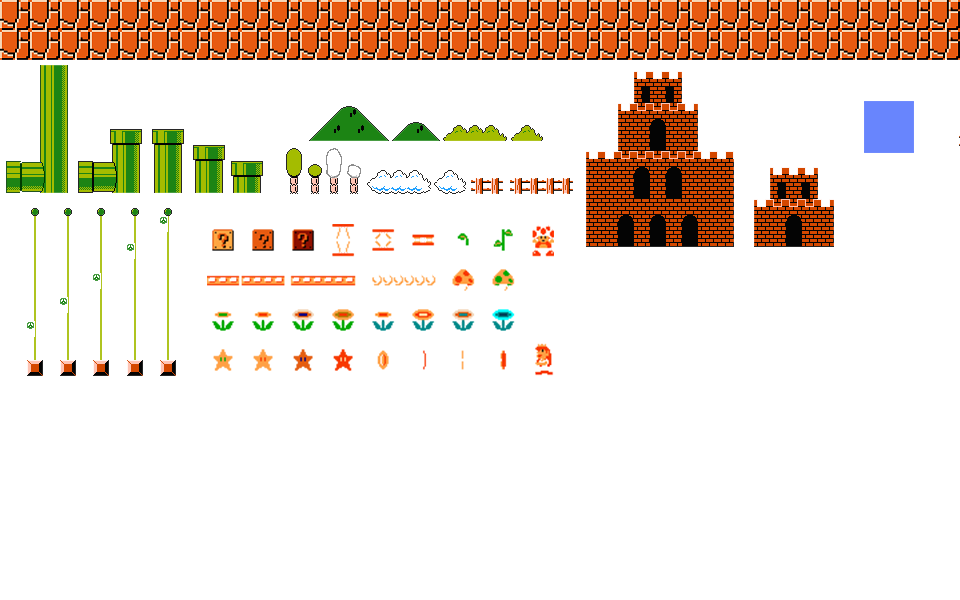
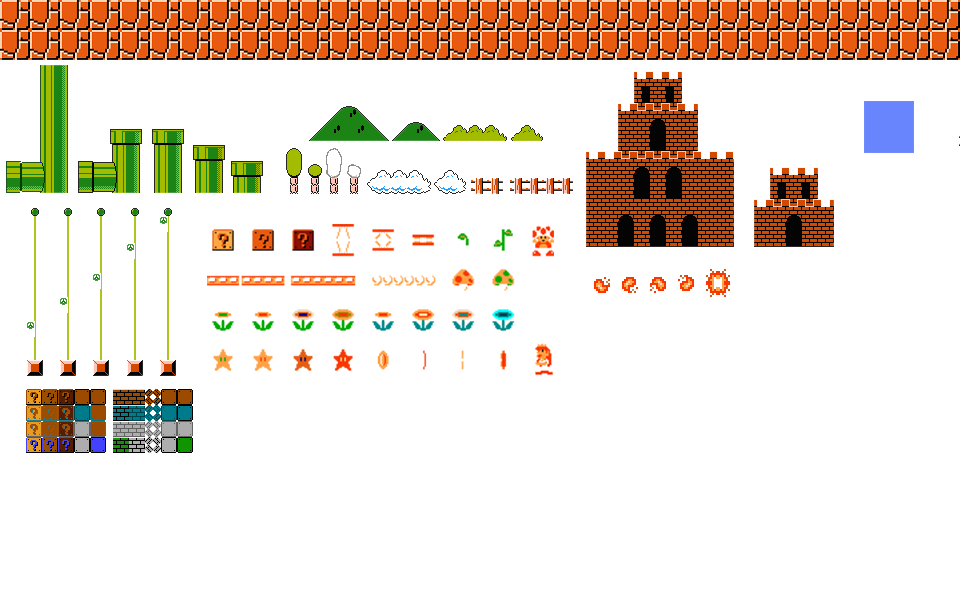
마리오 형태 변환 구현 및, 공격 구현

Changed region(s): [[0.0, 0.63, 0.2188, 0.78], [0.625, 0.45, 0.7812, 0.51]]

diff --git a/Super Mario bros/Mario.py b/Super Mario bros/Mario.py
@@ -3,10 +3,10 @@ import GameFramework
 
 class Mario:
 	# State
-	LEFT_IDLE, RIGHT_IDLE, LEFT_RUN, RIGHT_RUN,	LEFT_JUMP, RIGHT_JUMP, DIE = range(7)
+	LEFT_IDLE, RIGHT_IDLE, LEFT_RUN, RIGHT_RUN,	LEFT_JUMP, RIGHT_JUMP = range(6)
 	JUMP = 900
 	GRAVITY = 3000
-
+	MAX_FIRE = 10
 	KEY_MAP = {
 		(SDL_KEYDOWN, SDLK_LEFT):  (-1,  0),
 		(SDL_KEYDOWN, SDLK_RIGHT): (1,  0),
@@ -14,58 +14,119 @@ class Mario:
 		(SDL_KEYUP, SDLK_RIGHT):   (-1,  0)
 	}
 
-	KEY_SPACE = (SDL_KEYDOWN, SDLK_SPACE)
-
-
-	IMAGE_RECT = [
+	KEY_JUMP = (SDL_KEYDOWN, SDLK_SPACE)
+	KEY_LIFE1 = (SDL_KEYDOWN, SDLK_1)
+	KEY_LIFE2 = (SDL_KEYDOWN, SDLK_2)
+	KEY_LIFE3 = (SDL_KEYDOWN, SDLK_3)
+	KEY_FIRE = (SDL_KEYDOWN, SDLK_w)
+	IMAGE_LIFE1 = [
 		# Left Idle
-		[(360, 346, 30, 30)],
+		[[360, 346, 30, 30]],
 		# Right Idle
-		[(420, 346, 30, 30)],
+		[[420, 346, 30, 30]],
 		# Left Run
-		[(298, 346, 29, 30), (240, 346, 25, 30), (175, 346, 35, 30)],
+		[[298, 346, 29, 30], [240, 346, 25, 30], [175, 346, 35, 30]],
 		# Right Run
-		[(480, 346, 29, 30), (542, 346, 25, 30), (598, 346, 33, 30)],
+		[[480, 346, 29, 30], [542, 346, 25, 30], [598, 346, 33, 30]],
 		# Left Jump
-		[(57, 346, 34, 30)],
+		[[57, 346, 34, 30]],
 		# Right Jump
-		[(717, 346, 34, 30)],
-		# Die
-		[(245, 4, 57, 78), (324, 6, 57, 80)]
+		[[717, 346, 34, 30]]
 	]
+	IMAGE_LIFE2 = [
+		# Left Idle
+		[[359, 210, 33, 64]],
+		# Right Idle
+		[[417, 210, 33, 64]],
+		# Left Run
+		[[298, 210, 33, 64], [240, 210, 30, 64], [179, 210, 33, 64]],
+		# Right Run
+		[[476, 210, 33, 64], [538, 210, 30, 64], [597, 210, 33, 64]],
+		# Left Jump
+		[[59, 210, 32, 64]],
+		# Right Jump]
+		[[716, 210, 32, 64]]
+	]
+	IMAGE_FIREMAN = [
+		# Left Idle
+		[[359, 69, 33, 64]],
+		# Right Idle
+		[[417, 69, 33, 64]],
+		# Left Run
+		[[303, 69, 33, 64], [255, 69, 30, 64], [203, 69, 33, 64], [153, 69, 33, 64]],
+		# Right Run
+		[[472, 69, 33, 64], [524, 69, 30, 64], [573, 69, 33, 64], [622, 69, 33, 64]],
+		# Left Jump
+		[[52, 69, 32, 64]],
+		# Right Jump]
+		[[723, 69, 32, 64]]
+	]
+	IMAGE_FIRE = [[593, 307, 17, 17], [621, 307, 17, 17], [649, 307, 17, 17], [677, 309, 17, 17]]
 
 	def __init__(self):
-		self.x, self.y = (100, 90)
-		self.dx, self.dy = (0, 0)
-		self.speed = 3
+		self.x, self.y = (100, 80)
+		self.dx, self.dy = 0, 0
 		self.fidx = 0
 		self.time = 0
 		self.jump_speed = 0
+		self.speed = 3
 		self.state = Mario.RIGHT_IDLE
+		self.life = 0
 		self.image = load_image("resource/Mario.png")
-		self.is_collide = False
+
+		self.fx, self.fy = [0 for i in range(Mario.MAX_FIRE)], [0 for i in range(Mario.MAX_FIRE)]
+		self.fdx = [0 for i in range(Mario.MAX_FIRE)]
+		self.fidfx = [0 for i in range(Mario.MAX_FIRE)]
+		self.fire_count = 0
+		self.shoot_image = load_image("resource/background.png")
+		self.is_fire = [False for i in range(Mario.MAX_FIRE)]
 
 	def draw(self):
-		self.image.clip_draw(*Mario.IMAGE_RECT[self.state][self.fidx], self.x, self.y, 60, 60)
+		for i in range(Mario.MAX_FIRE):
+			if self.is_fire[i] == True:
+				self.shoot_image.clip_draw(*Mario.IMAGE_FIRE[self.fidfx[i]], self.fx[i], self.fy[i])
+				if self.fx[i] > 800:
+					self.is_fire[i] = False
+		if self.life == 0:
+			self.image.clip_draw(*Mario.IMAGE_LIFE1[self.state][self.fidx], self.x, self.y, 40, 40)
+		elif self.life == 1:
+			self.image.clip_draw(*Mario.IMAGE_LIFE2[self.state][self.fidx], self.x, self.y, 40, 80)
+		elif self.life == 2:
+			self.image.clip_draw(*Mario.IMAGE_FIREMAN[self.state][self.fidx], self.x, self.y, 40, 80)
 
 	def set_background(self, bg):
 		self.set_background = bg
 
 	def update(self):
-		print(self.state)
 		self.x += self.speed * self.dx
-		self.fidx = int(self.time * 7) % len(Mario.IMAGE_RECT[self.state])
+		for i in range(Mario.MAX_FIRE):
+			if self.is_fire[i] == True:
+				self.fidfx[i] = (self.fidfx[i] + 1) % 4
+				self.fx[i] += self.speed * self.fdx[i] * 2
+		if self.life == 0:
+			self.fidx = int(self.time * 7) % len(Mario.IMAGE_LIFE1[self.state])
+		elif self.life == 1:
+			self.fidx = int(self.time * 7) % len(Mario.IMAGE_LIFE2[self.state])
+		elif self.life == 2:
+			self.fidx = int(self.time * 7) % len(Mario.IMAGE_FIREMAN[self.state])
 		self.time += GameFramework.delta_time
 		if self.state in [Mario.RIGHT_JUMP, Mario.LEFT_JUMP]:
 			self.y += self.falling_speed * GameFramework.delta_time
 			self.falling_speed -= Mario.GRAVITY * GameFramework.delta_time
-			if self.y < 90:
-				self.y = 90
-				self.falling_speed = 0
-				if self.state == Mario.LEFT_JUMP:
-					self.state = Mario.LEFT_RUN if self.dx < 0 else Mario.LEFT_IDLE
-				elif self.state == Mario.RIGHT_JUMP:
-					self.state = Mario.RIGHT_RUN if self.dx > 0 else Mario.RIGHT_IDLE
+			if self.life == 0:
+				if self.y < 80:
+					self.y = 80
+					if self.state == Mario.LEFT_JUMP:
+						self.state = Mario.LEFT_RUN if self.dx < 0 else Mario.LEFT_IDLE
+					elif self.state == Mario.RIGHT_JUMP:
+						self.state = Mario.RIGHT_RUN if self.dx > 0 else Mario.RIGHT_IDLE
+			else:
+				if self.y < 100:
+					self.y = 100
+					if self.state == Mario.LEFT_JUMP:
+						self.state = Mario.LEFT_RUN if self.dx < 0 else Mario.LEFT_IDLE
+					elif self.state == Mario.RIGHT_JUMP:
+						self.state = Mario.RIGHT_RUN if self.dx > 0 else Mario.RIGHT_IDLE
 
 	def jump(self):
 		if self.state in [Mario.LEFT_IDLE, Mario.LEFT_RUN]:
@@ -80,7 +141,6 @@ class Mario:
 	def update_delta(self, ddx, ddy):
 		dx, dy = self.dx, self.dy
 		dx += ddx
-
 		if ddx != 0:
 			if self.state == Mario.LEFT_JUMP:
 				if dx > 0: self.state = Mario.RIGHT_JUMP
@@ -91,7 +151,6 @@ class Mario:
 					Mario.LEFT_RUN if dx < 0 else \
 						Mario.RIGHT_RUN if dx > 0 else \
 							Mario.LEFT_IDLE if ddx > 0 else Mario.RIGHT_IDLE
-
 		dy += ddy
 		self.dx, self.dy = dx, dy
 
@@ -99,5 +158,22 @@ class Mario:
 		pair = (event.type, event.key)
 		if pair in Mario.KEY_MAP:
 			self.update_delta(*Mario.KEY_MAP[pair])
-		elif pair == Mario.KEY_SPACE:
+		elif pair == Mario.KEY_JUMP:
 			self.jump()
+		elif pair == Mario.KEY_LIFE1:
+			self.life = 0
+			self.y = 80
+		elif pair == Mario.KEY_LIFE2:
+			self.life = 1
+			self.y = 100
+		elif pair == Mario.KEY_LIFE3:
+			self.life = 2
+			self.y = 100
+		elif pair == Mario.KEY_FIRE and self.life == 2:
+			self.is_fire[self.fire_count] = True
+			self.fx[self.fire_count], self.fy[self.fire_count] = self.x, self.y
+			if self.state in [Mario.RIGHT_IDLE, Mario.RIGHT_JUMP, Mario.RIGHT_RUN]:
+				self.fdx[self.fire_count] = 1
+			else:
+				self.fdx[self.fire_count] = -1
+			self.fire_count = (self.fire_count + 1) % Mario.MAX_FIRE

diff --git a/Super Mario bros/TitleState.py b/Super Mario bros/TitleState.py
@@ -1,6 +1,6 @@
 from pico2d import *
 import GameFramework
-import GameState_1
+import GameState
 
 def enter():
 	global background
@@ -21,7 +21,7 @@ def handle_event(event):
 	elif (event.type, event.key) == (SDL_KEYDOWN, SDLK_ESCAPE):
 		GameFramework.quit()
 	elif (event.type, event.key) == (SDL_KEYDOWN, SDLK_SPACE):
-		GameFramework.push(GameState_1)
+		GameFramework.push(GameState)
 
 def exit():
 	global background

diff --git a/Super Mario bros/GameState.py b/Super Mario bros/GameState.py
@@ -8,8 +8,7 @@ import json
 def enter():
 	global mario, ground, cloud, pipe, background
 	mario = Mario()
-	GameWorld.add(3, mario)
-
+	GameWorld.add(2, mario)
 
 	with open("JSON/Stage.json") as file:
 		data = json.load(file)
